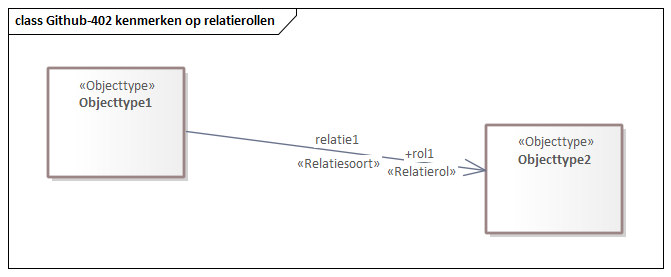
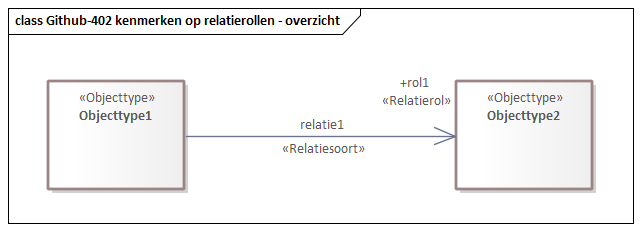
NEN3610-2022-Github-402kenmerkenoprelatierollen-1.0.0-1-20231114-20231114-154802

Changed region(s): [[0.0624, 0.2121, 0.936, 0.8788], [0.0, 0.0, 0.9984, 0.1515], [0.0, 0.9394, 0.9984, 1.0]]

diff --git a/data/SAMPLE-cat.respec.html b/data/SAMPLE-cat.respec.html
@@ -1,7 +1,13 @@
 
 <!DOCTYPE HTML><section id="cat" class="normative">
    <h2>Gegevensdefinitie</h2>
-   <!--NEN3610-2022-Github-402kenmerkenoprelatierollen-1.0.0-1-20231114-20231114-153550 imvertor Nightly-build.13-->
+   <!--NEN3610-2022-Github-402kenmerkenoprelatierollen-1.0.0-1-20231114-20231114-154802 imvertor Nightly-build.13-->
+   <section id="EAID_FA20DB83_6AFF_49c2_A2C3_5A69C5187669">
+      <h3>   Github-402 kenmerken op relatierollen - overzicht</h3>
+      <div class="imageinfo overview">
+         <figure><img src="data/Images/EAID_FA20DB83_6AFF_49c2_A2C3_5A69C5187669.png" usemap="#imagemap-EAID_FA20DB83_6AFF_49c2_A2C3_5A69C5187669" alt="Diagram &#xA;                        &#xA;                     "><figcaption>Github-402 kenmerken op relatierollen</figcaption>
+         </figure><map name="imagemap-EAID_FA20DB83_6AFF_49c2_A2C3_5A69C5187669"><area shape="rect" alt="Objecttype2" coords="456,81,593,190" href="#global_class_Model_Objecttype2"><area shape="rect" alt="Objecttype1" coords="48,81,185,190" href="#global_class_Model_Objecttype1"></map></div>
+   </section>
    <section>
       <h3>Objecttypen   </h3>
       
